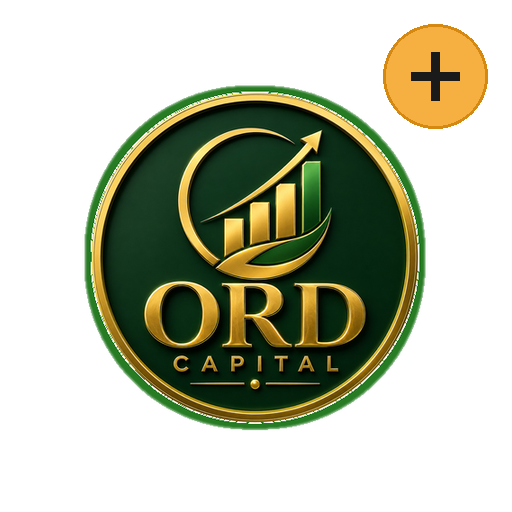
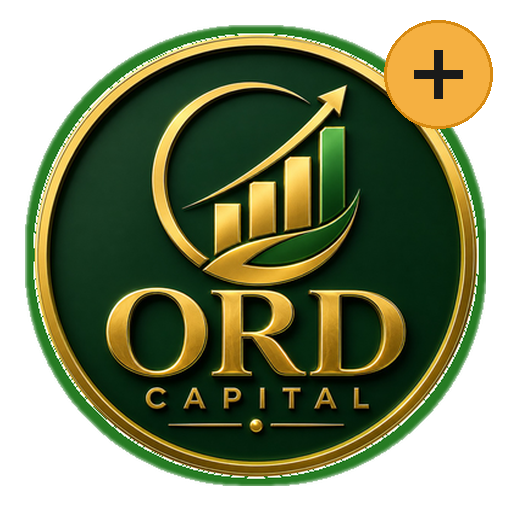
subida a produccion last

diff --git a/src/components/AddMovementModal/AddMovementModal.tsx b/src/components/AddMovementModal/AddMovementModal.tsx
@@ -1491,7 +1491,7 @@ let cachedProyectosHogar: ProyectoHogar[] | null = null;
                     <option value="" style={{ background: 'var(--surface)', color: 'var(--text-3)' }}>{t('movement_select_origin_placeholder')}</option>
                     {origenOptions.map(b => (
                       <option key={b.billetera_id} value={b.billetera_id} style={{ background: 'var(--surface)', color: 'var(--text)' }}>
-                        {b.icono || '💳'} {t(b.nombre)} ({formatMonto(b.saldo_actual.toString(), b.moneda)})
+                        {t(b.nombre)} ({formatMonto(b.saldo_actual.toString(), b.moneda)})
                       </option>
                     ))}
                   </select>
@@ -1518,7 +1518,7 @@ let cachedProyectosHogar: ProyectoHogar[] | null = null;
                     <option value="" style={{ background: 'var(--surface)', color: 'var(--text-3)' }}>{t('movement_select_destination_placeholder')}</option>
                     {destinoOptions.map(b => (
                       <option key={b.billetera_id} value={b.billetera_id} style={{ background: 'var(--surface)', color: 'var(--text)' }}>
-                        {b.icono || '💳'} {t(b.nombre)} ({formatMonto(b.saldo_actual.toString(), b.moneda)})
+                        {t(b.nombre)} ({formatMonto(b.saldo_actual.toString(), b.moneda)})
                       </option>
                     ))}
                   </select>

diff --git a/src/components/WalletDropdownSelect/WalletDropdownSelect.tsx b/src/components/WalletDropdownSelect/WalletDropdownSelect.tsx
@@ -156,7 +156,7 @@ export function WalletDropdownSelect({
               width: '100%',
               maxWidth: '420px',
               maxHeight: '80vh',
-              background: 'var(--surface-1)',
+              background: 'var(--surface)',
               border: '1px solid var(--border)',
               borderRadius: '16px',
               boxShadow: '0 20px 40px rgba(0, 0, 0, 0.4)',

diff --git a/public/sw.js b/public/sw.js
@@ -2,7 +2,7 @@
 // Plantilla del Service Worker. El script scripts/build-sw.js genera
 // public/sw.js. No editar public/sw.js a mano: se sobreescribe.
 
-const CACHE_NAME = 'ord-capital-fd4332f-1786627094097';
+const CACHE_NAME = 'ord-capital-5671c57-1786632437702';
 const ASSETS_TO_CACHE = [
   '/',
   '/index.html',

diff --git a/scripts/crop_and_generate_90_webp.py b/scripts/crop_and_generate_90_webp.py
@@ -1,0 +1,152 @@
+import os
+from PIL import Image, ImageDraw, ImageFilter
+import numpy as np
+from collections import deque
+
+def crop_emblem_to_90_percent():
+    src_path = 'docs/icons/android-icon-512x512.png'
+    if not os.path.exists(src_path):
+        raise FileNotFoundError(f"Source file not found: {src_path}")
+    
+    src = Image.open(src_path).convert('RGB')
+    arr = np.array(src, dtype=np.float32)
+    h, w, _ = arr.shape
+
+    # 1. Extract background mask via flood-fill from corners
+    dist = np.sqrt(np.sum((arr - [255.0, 255.0, 255.0])**2, axis=2))
+    bg_mask = np.zeros((h, w), dtype=bool)
+    queue = deque([(0,0), (0, w-1), (h-1, 0), (h-1, w-1)])
+    for r, c in queue:
+        bg_mask[r, c] = True
+
+    while queue:
+        r, c = queue.popleft()
+        for dr, dc in [(-1,0), (1,0), (0,-1), (0,1)]:
+            nr, nc = r + dr, c + dc
+            if 0 <= nr < h and 0 <= nc < w and not bg_mask[nr, nc]:
+                if dist[nr, nc] < 35.0:
+                    bg_mask[nr, nc] = True
+                    queue.append((nr, nc))
+
+    emblem_mask = ~bg_mask
+
+    # Find tight bounding box of the golden emblem circle
+    rows = np.any(emblem_mask, axis=1)
+    cols = np.any(emblem_mask, axis=0)
+    rmin, rmax = np.where(rows)[0][[0, -1]]
+    cmin, cmax = np.where(cols)[0][[0, -1]]
+
+    print(f"Original Emblem Bounding Box: row [{rmin}:{rmax}], col [{cmin}:{cmax}] (width: {cmax-cmin+1}, height: {rmax-rmin+1})")
+
+    # Create RGBA emblem cropped tightly to bounding box
+    alpha = np.zeros((h, w), dtype=np.float32)
+    alpha[emblem_mask] = 255.0
+
+    # Anti-alias boundary pixels
+    for r in range(1, h-1):
+        for c in range(1, w-1):
+            if bg_mask[r, c]:
+                nbrs = emblem_mask[r-1:r+2, c-1:c+2]
+                if np.any(nbrs):
+                    d = dist[r, c]
+                    a = max(0.0, min(255.0, (35.0 - d) / 35.0 * 255.0))
+                    alpha[r, c] = a
+
+    # Fill green rim (#267B23) around gold ring edge
+    emblem_img = Image.fromarray((emblem_mask * 255).astype(np.uint8))
+    dilated_img = emblem_img.filter(ImageFilter.MaxFilter(17))
+    dilated_mask = np.array(dilated_img) > 128
+
+    green_color = np.array([38, 123, 35], dtype=np.float32)
+
+    logo_rgba = np.zeros((h, w, 4), dtype=np.uint8)
+    logo_rgba[:, :, :3] = arr.astype(np.uint8)
+    logo_rgba[:, :, 3] = alpha.astype(np.uint8)
+
+    green_ring_mask = dilated_mask & (logo_rgba[:, :, 3] < 200)
+    for i in range(3):
+        logo_rgba[:, :, i] = np.where(green_ring_mask, green_color[i], logo_rgba[:, :, i])
+
+    dilated_alpha = Image.fromarray((dilated_mask * 255).astype(np.uint8)).filter(ImageFilter.GaussianBlur(1.5))
+    logo_rgba[:, :, 3] = np.maximum(logo_rgba[:, :, 3], np.array(dilated_alpha))
+
+    emblem_full_rgba = Image.fromarray(logo_rgba, 'RGBA')
+
+    # Crop tightly to the golden emblem bounds (including green rim)
+    # Give 4px padding for rim
+    crop_box = (max(0, cmin - 8), max(0, rmin - 8), min(w, cmax + 8), min(h, rmax + 8))
+    cropped_emblem = emblem_full_rgba.crop(crop_box)
+    print(f"Cropped Emblem Size: {cropped_emblem.size}")
+
+    # TARGET: Emblem MUST occupy 90% of the 512x512 canvas!
+    # 90% of 512 = 461px!
+    TARGET_EMBLEM_SIZE = 461
+    OFFSET = (512 - TARGET_EMBLEM_SIZE) // 2 # 25px margin
+
+    scaled_golden_emblem = cropped_emblem.resize((TARGET_EMBLEM_SIZE, TARGET_EMBLEM_SIZE), Image.Resampling.LANCZOS)
+
+    os.makedirs('scratch', exist_ok=True)
+    os.makedirs('public', exist_ok=True)
+
+    # 1. GREEN BACKGROUND ICON (512x512)
+    green_bg = Image.new('RGBA', (512, 512), (11, 56, 14, 255))
+    green_bg.paste(scaled_golden_emblem, (OFFSET, OFFSET), scaled_golden_emblem)
+
+    # Save PNG and WebP previews to scratch
+    green_bg.save('scratch/preview_logo_green_90.png', 'PNG')
+    green_bg.save('scratch/preview_logo_green_90.webp', 'WEBP', quality=95)
+    green_bg.save('scratch/preview_logo_green_95.png', 'PNG')
+
+    # Save to public PNG icons
+    green_bg.save('public/icon-512.png', 'PNG')
+    green_bg.save('public/icono_logo.png', 'PNG')
+    green_bg.save('public/logo.png', 'PNG')
+
+    # Save to public WebP logos!
+    green_bg.save('public/icono_logo.webp', 'WEBP', quality=95)
+    green_bg.save('public/logo.webp', 'WEBP', quality=95)
+
+    green_1024 = green_bg.resize((1024, 1024), Image.Resampling.LANCZOS)
+    green_1024.save('public/logo.png', 'PNG')
+    green_1024.save('public/logo.webp', 'WEBP', quality=95)
+
+    green_192 = green_bg.resize((192, 192), Image.Resampling.LANCZOS)
+    green_192.save('public/icon-192.png', 'PNG')
+    green_192.save('public/favicon.png', 'PNG')
+
+    apple_180 = green_bg.resize((180, 180), Image.Resampling.LANCZOS)
+    apple_180.save('public/apple-touch-icon.png', 'PNG')
+
+    print("Generated Green PWA assets (PNG + WebP) with Golden Emblem at 90% canvas size!")
+
+    # 2. WHITE BACKGROUND SHORTCUT ICON (512x512)
+    white_bg = Image.new('RGBA', (512, 512), (255, 255, 255, 255))
+    white_bg.paste(scaled_golden_emblem, (OFFSET, OFFSET), scaled_golden_emblem)
+
+    # Draw vibrant yellow '+' badge in top-right corner
+    draw = ImageDraw.Draw(white_bg)
+    cx, cy, r = 438, 74, 54
+    draw.ellipse([cx - r, cy - r, cx + r, cy + r], fill='#F5B041', outline='#D68910', width=3)
+    
+    plus_len = 24
+    plus_thick = 8
+    draw.rectangle([cx - plus_thick//2, cy - plus_len, cx + plus_thick//2, cy + plus_len], fill='#1A1A1A')
+    draw.rectangle([cx - plus_len, cy - plus_thick//2, cx + plus_len, cy + plus_thick//2], fill='#1A1A1A')
+
+    # Save PNG and WebP previews to scratch
+    white_bg.save('scratch/preview_logo_white_90.png', 'PNG')
+    white_bg.save('scratch/preview_logo_white_90.webp', 'WEBP', quality=95)
+    white_bg.save('scratch/preview_logo_white_95.png', 'PNG')
+
+    # Save to public shortcut icons
+    white_bg.save('public/icon-shortcut-add.png', 'PNG')
+    white_bg.save('public/icon-shortcut-add.webp', 'WEBP', quality=95)
+
+    white_192 = white_bg.resize((192, 192), Image.Resampling.LANCZOS)
+    white_192.save('public/icon-shortcut-add-192.png', 'PNG')
+    white_192.save('public/icon-shortcut-add-192.webp', 'WEBP', quality=95)
+
+    print("Generated White Shortcut PWA assets (PNG + WebP) with Golden Emblem at 90% canvas size!")
+
+if __name__ == '__main__':
+    crop_emblem_to_90_percent()
